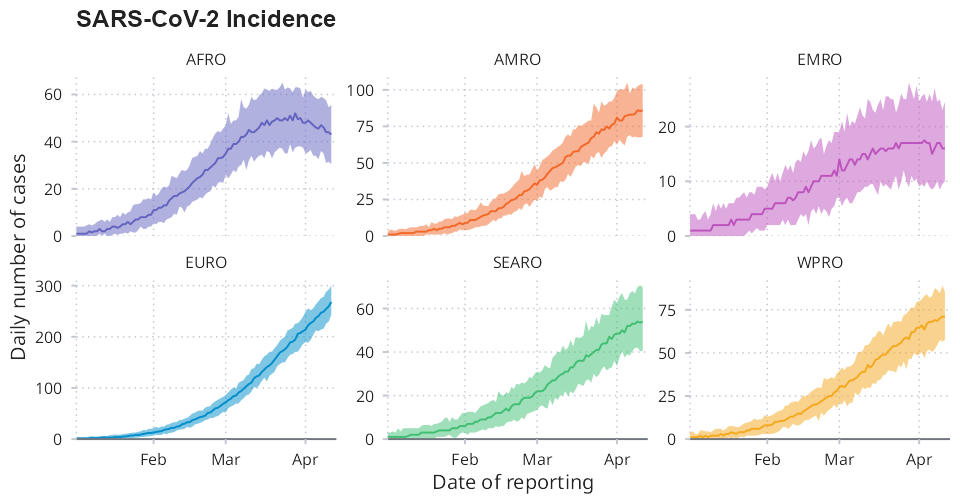
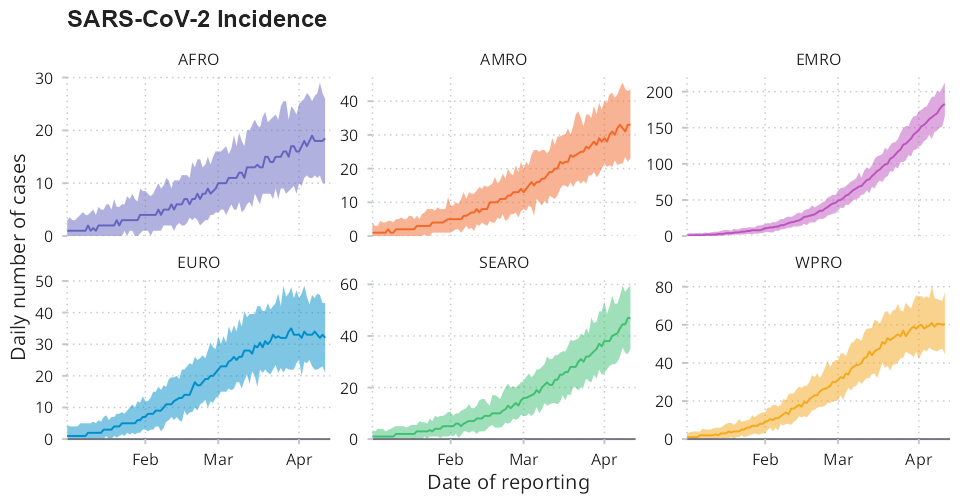
updated Readme

diff --git a/README.md b/README.md
@@ -10,7 +10,7 @@
 # *whopals: WHO Data Design in R*
 
 This package brings the [WHO Data Design
-Language](https://srhdteuwpubsa.z6.web.core.windows.net/gho/data/design-language/design-system/colors/)
+Language](https://srhdteuwpubsa.z6.web.core.windows.net/gho/data/design-language)
 into R. Install it using:
 
 ``` r